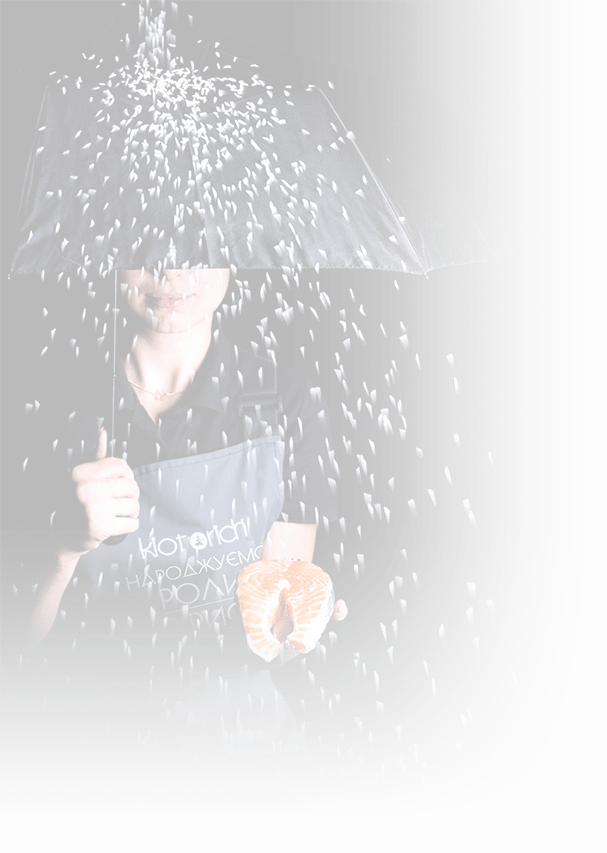
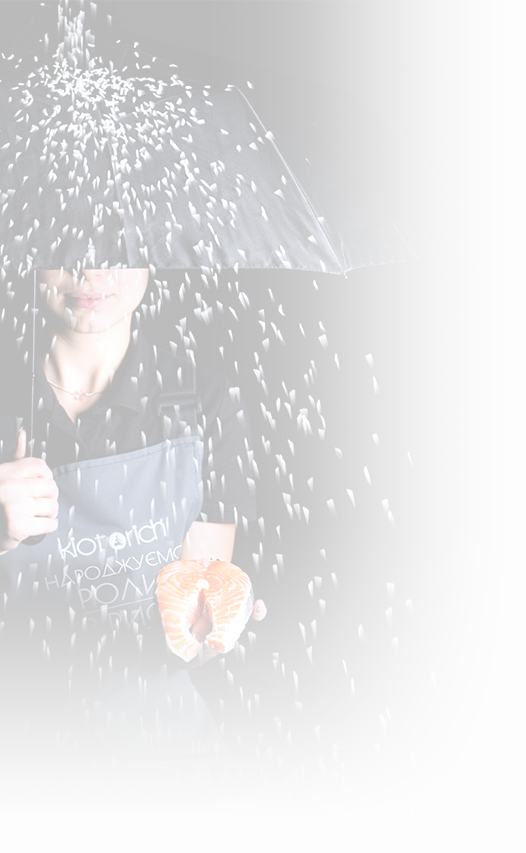
homework10

diff --git a/style.css b/style.css
@@ -111,7 +111,7 @@ header:after{
 	padding-top: 89px;
 }
 .main-image{
-	background: url(../img/mainimage-min.jpg)no-repeat #0f0f0f;
+	background: url(img/mainimage-min.jpg)no-repeat #0f0f0f;
 	background-position-x: center;
 	width: 100%;
     height: 606px;
@@ -143,29 +143,29 @@ header:after{
 	text-align: center;
 	text-transform: uppercase;
 }
-.main-image-type-2{
+img[alt="Type 2"]{
 	top: 89px;
-	left: -207px;
+    right: 63%;
 }
-.main-image-type-3{
+img[alt="Leaflet top"]{
 	top: 75px;
-	left: 190px;
+	right: 70%
 }
-.main-image-type-4{
+img[alt="Leaflet"]{
 	bottom: -67px;
-	left: 524px;
+	left: 45%;
 }
-.main-image-type-5{
+img[alt="Sushi"]{
 	top: 149px;
-	right: 10px;
+	left: 67%;;
 }
-.main-image-type-6{
+img[alt="Mainimage"]{
 	top: 74px;
-	right: 439px;
+	left: 51%;
 }
-.main-image-type-7{
+img[alt="Sushi-rol"]{
 	top: 63px;
-	right: -52px;
+	left: 95%;
 }
 
 		/*!!MAIN!!*/
@@ -178,7 +178,7 @@ main:before{
 }
 
 main{
-	background: #0f0f0f;
+	background: url(img/backgr-left-min.png) no-repeat top left, url(img/backgr-right-min.png) no-repeat top right,url(img/backgr-right-bott-min.png) no-repeat bottom right, url(img/backgr-left-bott-min.png) no-repeat bottom left,#0f0f0f;
 	color: #fff;
 }
 .main-products{
@@ -194,7 +194,8 @@ main{
 	font-weight: 600;
 	font-size: 18px;
 	line-height: 1.5;
-	padding: 32px 0;
+	padding-top: 22px;
+    padding-bottom: 32px;
 }
 .main-product-desk-type{
 	float: left;
@@ -209,7 +210,7 @@ main{
 	width: inherit;
 	display: table-cell;
 	vertical-align: middle;
-	padding-top: 90px;
+	padding-top: 80px;
 }
 .main-product-desk-name{
 	font-weight: 300;
@@ -233,6 +234,7 @@ main{
     bottom: -27px;
     left: 18px;
     z-index: 9999;
+    box-shadow: 2px 3px 24px 0px rgba(243, 33, 33, 0.64);
 }
 
 .main-products:after{
@@ -240,13 +242,19 @@ main{
 	clear: both;
 	display: block;
 }
+.main-product-desk-type:not(:nth-child(5n)){
+	border-right: 1px solid transparent;
+}
+.main-product-desk-type:nth-child(n+6){
+	border-top: 1px solid transparent;
+}
 /*NEWS*/
 .main-news{
-	padding-top:152px;
-	padding-bottom: 254px;
+	padding-top:139px;
+	padding-bottom: 255px;
 }
 .main-news-title{
-	padding-bottom: 82px;
+	padding-bottom: 73px;
 	text-align: center;
 	margin:0;
 	font-size: 42px;
@@ -259,22 +267,19 @@ main{
 .main-news h3{
 	font-weight:600;
 	font-size: 18px;
-	line-height: 1.5;
 	margin: 0;
-    padding: 16px 0;
 }
 .main-news time{
 	font-size: 13px;
     font-weight: 400;
     display: block;
     position: relative;
-    padding-left: 20px;
+    padding: 13px 0 13px 20px;
 }
 .main-news time:after{
 	content: '';
-	top: 0;
 	left: 0;
-	background: url(../img/calendar.png)no-repeat center center;
+	background: url(img/calendar.png)no-repeat center center;
 	width: 13px;
 	height: 14px;
 	position: absolute;	
@@ -286,14 +291,14 @@ main{
 	padding-right: 30px;
 }
 .main-news-type1-image a{
-	background: url(../img/news-1-min.jpg)no-repeat center;
+	background: url(img/news-1-min.jpg)no-repeat center;
 	width: inherit;
 	height: 261px;
 	border-radius: 10px;
 	display: block;
 }
 .main-news-type1-image{
-	padding-bottom: 20px;
+	padding-bottom: 12px;
 }
 .main-news-type2,.main-news-type3{
 	width: 570px;
@@ -303,7 +308,7 @@ main{
 	padding-right: 30px;
 }
 .main-news-type2-image a{
-	background: url(../img/news-2-min.jpg)no-repeat;
+	background: url(img/news-2-min.jpg)no-repeat;
 	display: block;
 	width: 270px;
 	height: 226px;
@@ -311,7 +316,7 @@ main{
 
 }
 .main-news-type3-image a{
-	background: url(../img/news-3-min.jpg)no-repeat center;
+	background: url(img/news-3-min.jpg)no-repeat center;
 	width: 270px;
 	height: 226px;
 	display: block;
@@ -322,19 +327,24 @@ main{
     height: inherit;
     float: left;
 }
-.main-news-type1-text,.main-news-type2-text{
+.main-news-type1-text,.main-news-type2-text,.main-news-type3-text{
 	font-size: 13px;
     font-weight: 400;
-    padding-bottom: 16px;
+    line-height: 18px;
+}
+.main-news-type1-text{
+	padding-bottom: 22px;
+}
+.main-news-type2-text{
+	padding-bottom: 16px;
+}
+.main-news-type3-text{
+    padding-bottom: 33px;
 }
 .main-news-type3{
 	padding-top: 30px;
 }
-.main-news-type3-text{
-	font-size: 13px;
-    font-weight: 400;
-    padding-bottom: 27px;
-}
+
 .button a{
 	display: block;
 	width: 152px;
@@ -357,8 +367,7 @@ main:after{
 
 footer{
 	background: #282828;
-	padding-top:50px;
-	padding-bottom: 82px;
+	padding: 50px 0 82px 0;
 	color: #fff;
 }
 .footer-logo{
@@ -368,6 +377,16 @@ footer{
 .footer-logo,.footer-info,.footer-contact{
 	width: 33.3%;
 }
+.footer-info-address{
+	padding-bottom: 6px;
+}
+.footer-info-worktime{
+	padding-bottom: 18px;
+}
+.footer-social-buttom{
+	width: 170px;
+	margin: 0 auto;
+}
 .footer-contact{
 	text-align: right;
 }
@@ -376,13 +395,12 @@ footer{
 	font-weight: 500;
 	font-size: 22px;
 }
-.footer-contact-numb:first-child{
-	padding-right: 9px;
+.footer-contact-numb{
+	padding-right: 12px;
+    line-height: 28px;
 }
-.footer-social-buttom{
-	width: 170px;
-	margin: 0 auto;
-	margin-top: 21px;
+.footer-contact-numb a:first-child{
+	padding-right: 9px;
 }
 footer:after{
 	content: '';

diff --git a/index.html b/index.html
@@ -7,7 +7,7 @@
     <title>Aliexpert</title>
     <meta name="description" content="ALIEXPERT - унікальний ресторан японської кухні. Тел. +380970000000">
     <link rel="stylesheet" type="text/css" href="css/normalize.css">
-    <link rel="stylesheet" type="text/css" href="css/style.css"> 
+    <link rel="stylesheet" type="text/css" href="style.css"> 
     
 </head>
 <body>
@@ -52,12 +52,12 @@
 					<div class="image-title2">Друга страва<br>в подарунок</div>
 				</div>
 			</div>
-				<div class="main-image-type-2 pos-abs"><img src="img/flying-sushi-groot-type2--min.png" alt="Type 2"></div>
-				<div class="main-image-type-3 pos-abs"><img src="img/list-top.png" alt="Leaflet top"></div>
-				<div class="main-image-type-4 pos-abs"><img src="img/list.png" alt="Leaflet"></div>
-				<div class="main-image-type-5 pos-abs"><img src="img/sushi-image-min.png" alt="Sushi"></div>
-				<div class="main-image-type-6 pos-abs"><img src="img/mainimage-center-min.png" alt="Mainimage"></div>
-				<div class="main-image-type-7 pos-abs"><img src="img/mainimage-right-top-min.png" alt="Sushi-rol"></div>
+				<img class="pos-abs" src="img/flying-sushi-groot-type2--min.png" alt="Type 2">
+				<img class="pos-abs" src="img/list-top.png" alt="Leaflet top">
+				<img class="pos-abs" src="img/list.png" alt="Leaflet">
+				<img class="pos-abs" src="img/sushi-image-min.png" alt="Sushi">
+				<img class="pos-abs" src="img/mainimage-center-min.png" alt="Mainimage">
+				<img class="pos-abs" src="img/mainimage-right-top-min.png" alt="Sushi-rol">
 		</div>
 	</section>
 
@@ -168,8 +168,8 @@
     					<div class="main-news-type1-image">
     						<a href="#"></a>
     					</div>
-    					<time>12.12.18</time>
     					<h3>Наша спецпропозиція: Villa Krim в подарунок</h3>
+    					<time>12.12.18</time>
 						<div class="main-news-type1-text">Суші-бар «Kioto Rich» - успішний проект 2009 року, зустрічає гостей стравами японської, європейської, авторської кухнями. Невимушена, легка атмосфера, позитивна енергетика, підтримується оригінальним дизайном «industrial», панорамними вікнами, які відкривають динамічний пейзаж центру міста, традиційними японськими ритмами і lounge музикою.</div>
 						<div class="button"><a href="#">Детальніше</a></div>
     				</li>
@@ -178,8 +178,8 @@
     						<a href="#"></a>
     					</div>
     					<div class="main-news-type-block flo-lef">
-	    					<time>12.12.18</time>
 	    					<h3>Нове меню.<br>Вже скоро!</h3>
+	    					<time>12.12.18</time>
 							<div class="main-news-type2-text">Свята, що наближаються надихають нас на нові прагнення і відкриття.І вже зовсім скоро ми презентуємо для наших гостей нове меню ресторану «KiotoRich».</div>
 							<div class="button"><a href="#">Детальніше</a></div>
 						</div>
@@ -190,8 +190,8 @@
     						<a href="#"></a>
     					</div>
     					<div class="main-news-type-block flo-lef">
-	    					<time>12.12.18</time>
 	    					<h3>Уявляєте, ми разом<br>вже 8 років.</h3>
+	    					<time>12.12.18</time>
 							<div class="main-news-type3-text">За 8 років роботи нашого ресторану ви багаторазово показали нам своє добре ставлення. Ми вдячні вам за вашу довіру! </div>
 							<div class="button"><a href="#">Детальніше</a></div>
 						</div>
